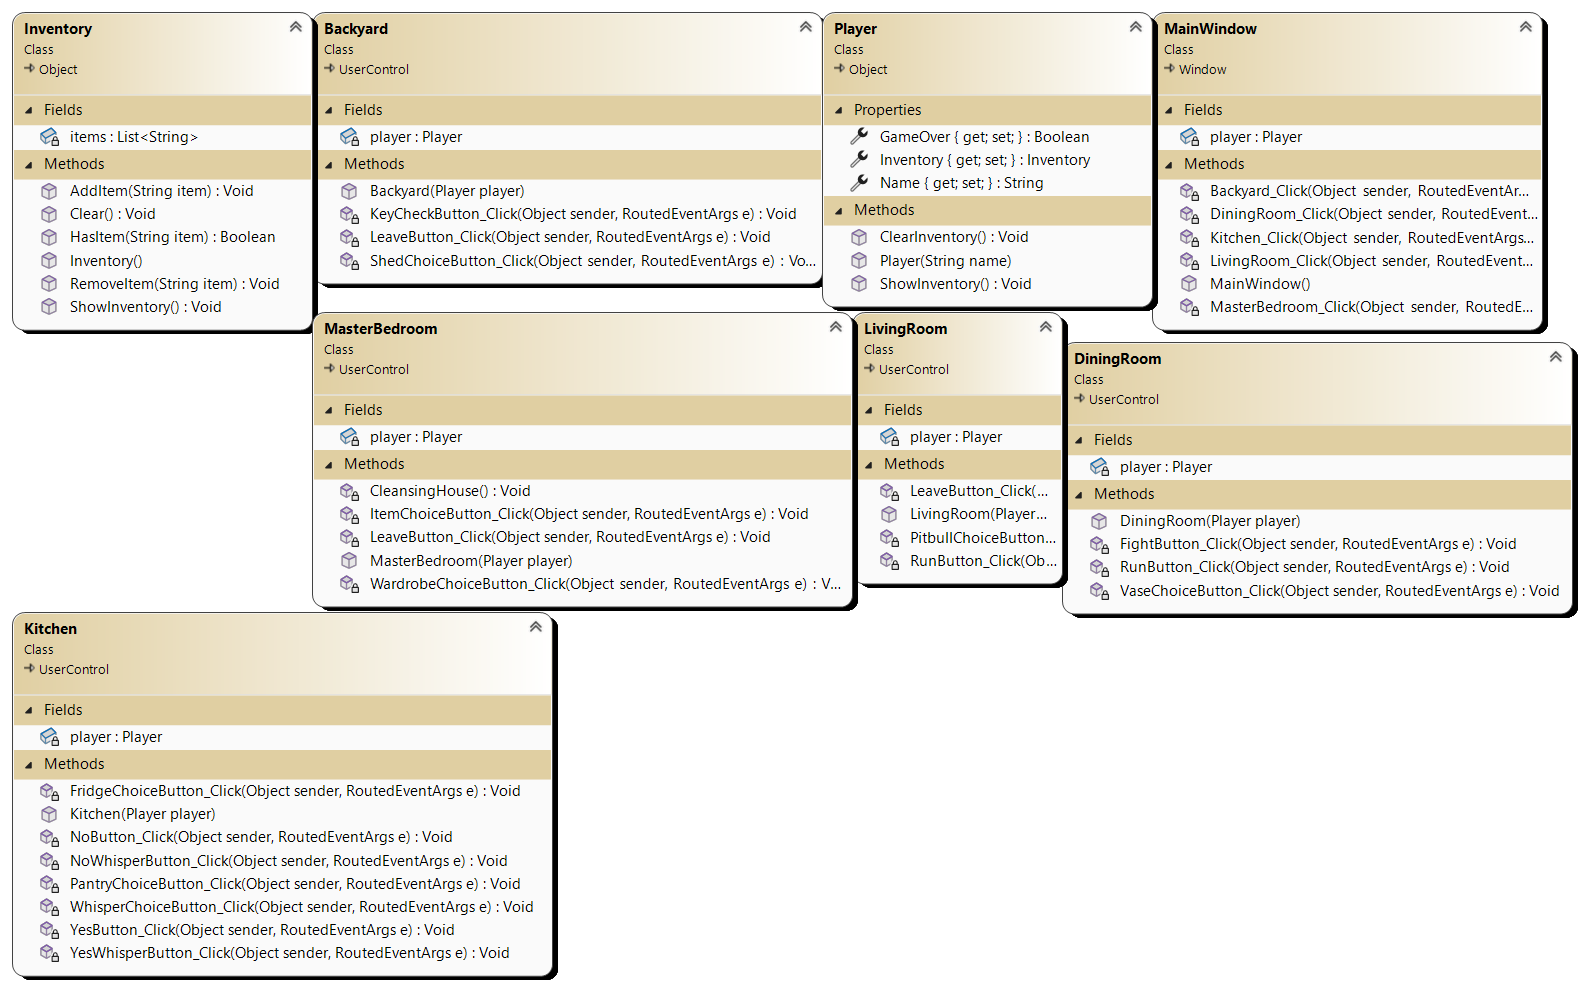
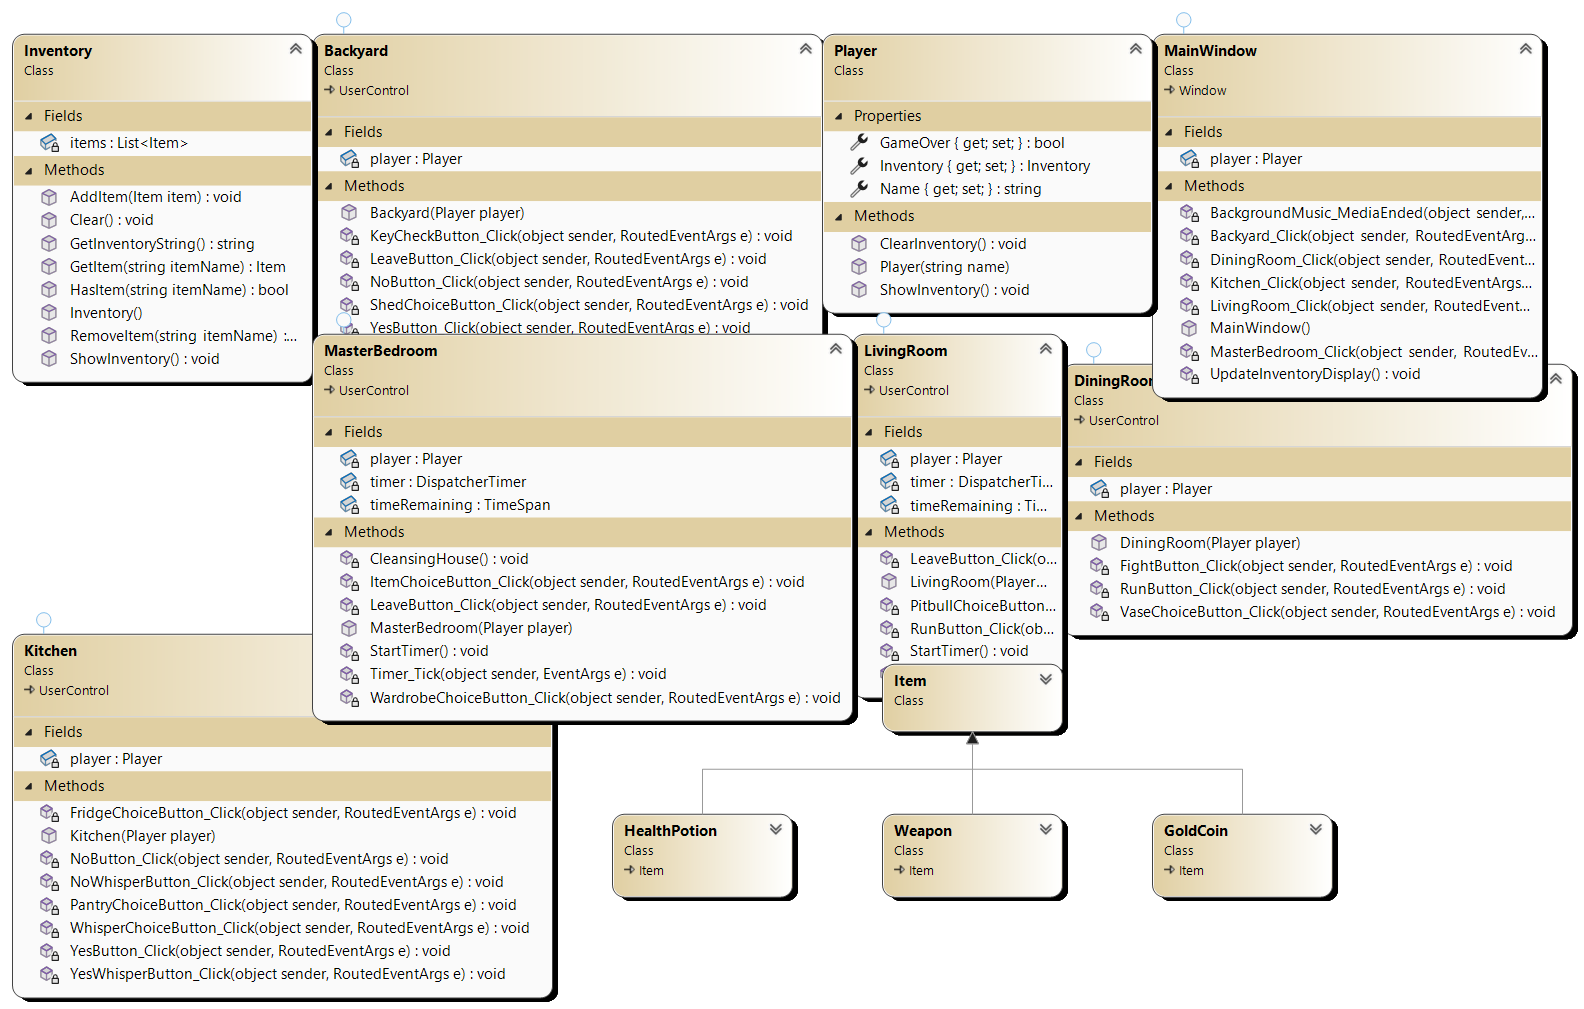
Updated inventory

diff --git a/House of Horrorv2/Inventory.cs b/House of Horrorv2/Inventory.cs
@@ -16,53 +16,97 @@ namespace House_of_Horrorv2
 
         public void AddItem(Item item)
         {
-            items.Add(item);
-            Console.WriteLine($"{item.Name} has been added to your inventory.");
+            try
+            {
+                items.Add(item);
+                Console.WriteLine($"{item.Name} has been added to your inventory.");
+            }
+            catch (Exception ex)
+            {
+                Console.WriteLine($"Error adding item: {ex.Message}");
+            }
         }
 
         public void RemoveItem(string itemName)
         {
-            var item = items.FirstOrDefault(i => i.Name == itemName);
-            if (item != null)
+            try
             {
-                items.Remove(item);
-                Console.WriteLine($"{item.Name} has been removed from your inventory.");
+                var item = items.FirstOrDefault(i => i.Name == itemName);
+                if (item != null)
+                {
+                    items.Remove(item);
+                    Console.WriteLine($"{item.Name} has been removed from your inventory.");
+                }
+                else
+                {
+                    Console.WriteLine($"{itemName} is not in your inventory.");
+                }
             }
-            else
+            catch (Exception ex)
             {
-                Console.WriteLine($"{itemName} is not in your inventory.");
+                Console.WriteLine($"Error removing item: {ex.Message}");
             }
         }
 
         public bool HasItem(string itemName)
         {
-            return items.Any(i => i.Name == itemName);
+            try
+            {
+                return items.Any(i => i.Name == itemName);
+            }
+            catch (Exception ex)
+            {
+                Console.WriteLine($"Error checking item: {ex.Message}");
+                return false;
+            }
         }
 
         public Item GetItem(string itemName)
         {
-            return items.FirstOrDefault(i => i.Name == itemName);
+            try
+            {
+                return items.FirstOrDefault(i => i.Name == itemName);
+            }
+            catch (Exception ex)
+            {
+                Console.WriteLine($"Error getting item: {ex.Message}");
+                return null;
+            }
         }
 
         public void Clear()
         {
-            items.Clear();
-            Console.WriteLine("Game Over! Your inventory has been cleared.");
+            try
+            {
+                items.Clear();
+                Console.WriteLine("Game Over! Your inventory has been cleared.");
+            }
+            catch (Exception ex)
+            {
+                Console.WriteLine($"Error clearing inventory: {ex.Message}");
+            }
         }
 
         public string GetInventoryString()
         {
-            if (items.Count == 0)
+            try
             {
-                return "Your inventory is empty.";
-            }
+                if (items.Count == 0)
+                {
+                    return "Your inventory is empty.";
+                }
 
-            var inventoryList = "You are carrying:\n";
-            foreach (var item in items)
-            {
-                inventoryList += $"{item.Quantity} x {item.Name}\n";
+                var inventoryList = "You are carrying:\n";
+                foreach (var item in items)
+                {
+                    inventoryList += $"{item.Quantity} x {item.Name}\n";
+                }
+                return inventoryList;
             }
-            return inventoryList;
+            catch (Exception ex)
+            {
+                return $"Error getting inventory: {ex.Message}";
+            }
         }
 
         public void ShowInventory()
